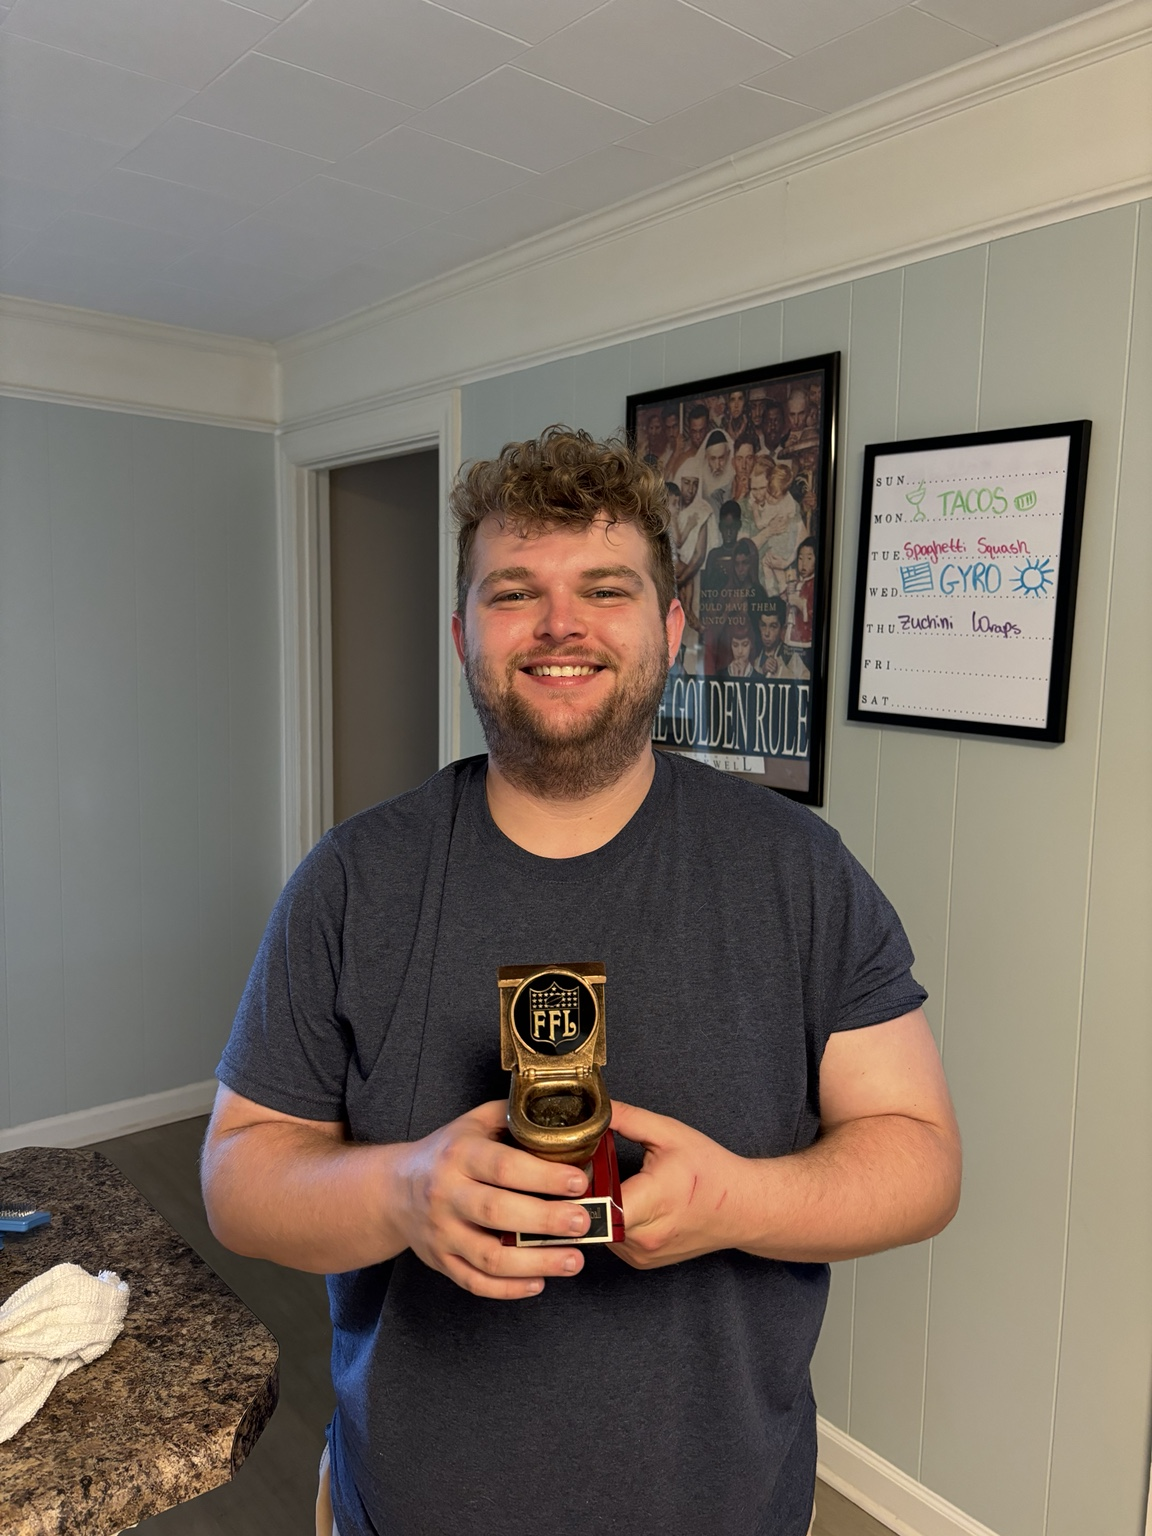
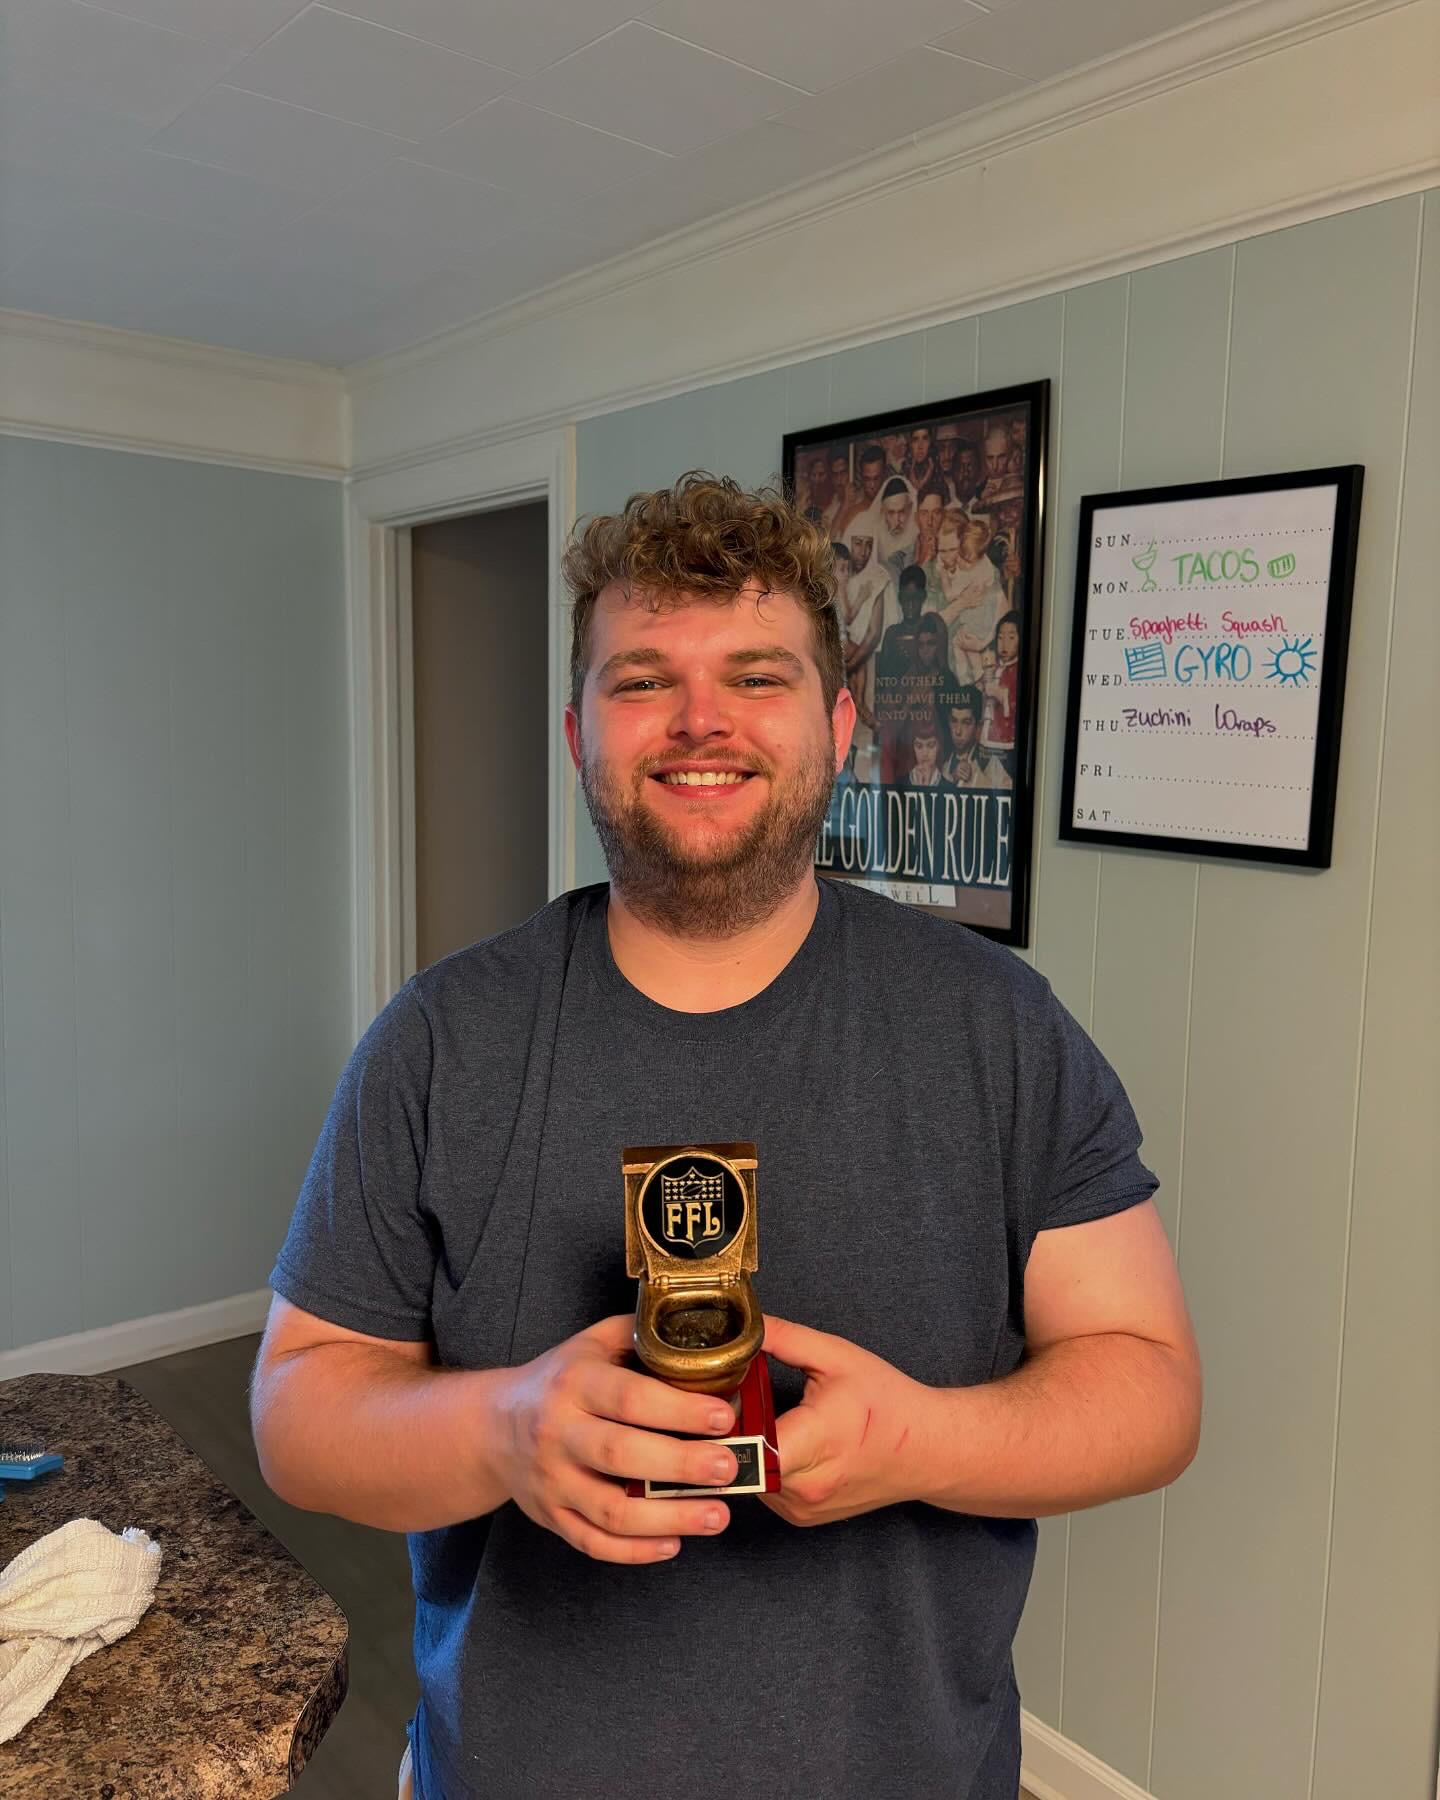
Add files via upload

diff --git a/script.js b/script.js
@@ -146,6 +146,18 @@ function home(){
   const championMember={
     "2020":"Grayson","2021":"Bailey","2022":"Davis","2023":"Victor B.","2024":"Quinton","2025":"Kameron"
   };
+  const splitBannerTeamName=(name)=>{
+    const words=name.trim().split(/\\s+/);
+    if(words.length<2) return name;
+    let best=1, bestDiff=Infinity;
+    for(let i=1;i<words.length;i++){
+      const a=words.slice(0,i).join(" ");
+      const b=words.slice(i).join(" ");
+      const diff=Math.abs(a.length-b.length);
+      if(diff<bestDiff){bestDiff=diff;best=i;}
+    }
+    return `${words.slice(0,best).join(" ")}<br><span>${words.slice(best).join(" ")}</span>`;
+  };
   const bannerPhoto={
     "2020":"grayson-helmet.png","2021":"bailey-banner.png","2022":"davis-helmet.png",
     "2023":"victor-helmet.png","2024":"quinton-banner.png","2025":"kameron-banner.png"
@@ -154,7 +166,7 @@ function home(){
     <div class="section-title"><span></span><h2>League Champions</h2><span></span></div>
     <div class="banner-row">${champions.map((c,i)=>`<div class="champion-banner champion-banner-link" tabindex="0" role="button" data-member="${championMember[c[0]]}" aria-label="Open ${c[1]}'s member profile" style="--speed:${5.2+i*.35}s;--delay:${i*-.55}s">
       <div class="year">${c[0]}</div>
-      <div class="team">${c[2]}</div>
+      <div class="team">${splitBannerTeamName(c[2])}</div>
       <img class="champion-photo" src="${bannerPhoto[c[0]]}" alt="${c[1]} team image">
       <div class="champ"><strong>${c[1]}</strong></div>
       <div class="record">${c[3]}</div>
@@ -224,16 +236,7 @@ function history(){
     <section class="season-foundation">
       <div class="season-foundation-kicker">THE LEAGUE IS BUILT TO LAST</div>
       <h3>Five Years Strong</h3>
-      <p>2024 was the year we knew the Alpha Psi Fake Football League was built to last. Going into the fifth year, we finally had a solid group of active brothers who were invested in the league and in what we were building together. We determined that draft order would be done by March Madness brackets, unless someone could get a celebrity or coach to make the pick. We also created our dynasty league this year, giving the Alpha Psi football community another way to compete and keep building for the future.</p>
-    <section class="history-photo-feature champion-photo-feature fantasy-loser-feature">
-      <div class="history-photo-feature-title">2024 FANTASY LOSER</div>
-      <figure>
-        <a href="2024-fantasy-loser-drayton-paxton.jpeg" target="_blank" rel="noopener">
-          <img src="2024-fantasy-loser-drayton-paxton.jpeg" alt="2024 Fantasy loser Drayton Paxton">
-        </a>
-        <figcaption>Fantasy loser 2024 Drayton Paxton</figcaption>
-      </figure>
-    </section>
+      <p>2024 was the year we knew the Alpha Psi Fake Football League was built to last. Going into the fifth year, we finally had a solid group of active brothers who were invested in the league and in what we were building together. We determined that draft order would be done by March Madness brackets, unless someone could get a celebrity or coach to make the pick. We also created our dynasty league this year, giving the Alpha Psi football community another way to compete and keep building for the future.</p></section>
 
     <section class="history-photo-feature champion-photo-feature">
       <div class="history-photo-feature-title">2024 CHAMPION</div>
@@ -245,7 +248,18 @@ function history(){
       </figure>
     </section>
 
+    
+    <section class="history-photo-feature champion-photo-feature fantasy-loser-feature">
+      <div class="history-photo-feature-title">2024 FANTASY LOSER</div>
+      <figure>
+        <a href="2024-fantasy-loser-drayton-paxton.jpeg" target="_blank" rel="noopener">
+          <img src="2024-fantasy-loser-drayton-paxton.jpeg" alt="2024 Fantasy loser Drayton Paxton">
+        </a>
+        <figcaption>Fantasy loser 2024 Drayton Paxton</figcaption>
+      </figure>
     </section>
+
+    
 
     ${renderPodium([
       {cls:"second",medal:"2ND",team:"Cocaine Cowboys",manager:"Jonathan Davis",label:"2ND PLACE"},
@@ -316,17 +330,7 @@ function history(){
       <div class="season-foundation-kicker">THE MODERN LEAGUE TAKES SHAPE</div>
       <h3>Becoming What We Know Today</h3>
       <p>2023 was the year the league really started to become what we know today. The current group of brothers was beginning to take shape, and people were investing more of themselves into what we were building. The podcast was growing, giving everyone a chance to get on and talk football and league business together. We also started giving out ices for scoring 0 points, and bench spots were cut from 7 to 6, putting a much tighter limit on roster depth. Most importantly, we introduced a uniform punishment system through the Wheel of Punishments, creating the league tradition that we still use today. Justin Cooper also became our Ice Commissioner, taking charge of the ice tradition that became part of the league.</p>
-    <section class="history-photo-feature champion-photo-feature">
-      <div class="history-photo-feature-title">2023 CHAMPION</div>
-      <figure>
-        <a href="2023-champion-victor-barcenas.jpeg" target="_blank" rel="noopener">
-          <img src="2023-champion-victor-barcenas.jpeg" alt="2023 Champion Victor Barcenas">
-        </a>
-        <figcaption>2023 Champion Victor Barcenas</figcaption>
-      </figure>
-    </section>
-
-    <section class="history-photo-feature">
+<section class="history-photo-feature">
       <div class="history-photo-feature-title">DRAFT DAY 2023</div>
       <div class="history-photo-grid">
         <figure>
@@ -339,13 +343,30 @@ function history(){
         </figure>
       </div>
     </section>
+<section class="history-photo-feature champion-photo-feature">
+      <div class="history-photo-feature-title">2023 CHAMPION</div>
+      <figure>
+        <a href="2023-champion-victor-barcenas.jpeg" target="_blank" rel="noopener">
+          <img src="2023-champion-victor-barcenas.jpeg" alt="2023 Champion Victor Barcenas">
+        </a>
+        <figcaption>2023 Champion Victor Barcenas</figcaption>
+      </figure>
+    </section>
+<section class="history-photo-feature champion-photo-feature fantasy-loser-feature">
+  <div class="history-photo-feature-title">2023 FANTASY LOSER</div>
+  <figure class="history-photo-card">
+    <img src="2023-fantasy-loser-chase-arrington.jpeg" alt="2023 Fantasy loser Chase Arrington">
+    <figcaption>2023 Fantasy loser Chase Arrington</figcaption>
+  </figure>
+</section>
+
 
     </section>
 
     ${renderPodium([
       {cls:"second",medal:"2ND",team:"Pillsbury Throw-boy",label:"2ND PLACE"},
-      {cls:"first",medal:"1ST",team:"El Effes Kitchen",manager:"Braxton Ivey",label:"2023 CHAMPION"},
-      {cls:"third",medal:"3RD",team:"El jeffe’s Kitchen",label:"3RD PLACE"}
+      {cls:"first",medal:"1ST",team:"My Ball Zach Ertz",manager:"Victor Barcenas",label:"2023 CHAMPION"},
+      {cls:"third",medal:"3RD",team:"El Jeffe's Kitchen",manager:"Braxton Ivey",label:"3RD PLACE"}
     ])}
 
     ${renderMoves(["Justin Cooper","Victor Barcenas"],["Blake Jackson"])}
@@ -388,15 +409,7 @@ const render2022=()=>`<section class="history-season-panel history-2022-panel" d
     <section class="season-foundation">
       <div class="season-foundation-kicker">THE LEAGUE TAKES SHAPE</div>
       <h3>Getting More Serious</h3>
-      <p>By 2022, the Alpha Psi Fake Football League was starting to get a little more serious. The competition was becoming more meaningful and the league was beginning to develop its identity, but there was still serious turnover from season to season. Bailey Coble and Quinton Roof also started the Alpha Sighs Podcast, giving the league another way to bring the brothers together, talk football, and build the league's personality outside of the weekly matchups. New brothers were coming in, others were moving on, and everyone was still figuring out what it meant to build a lasting league while competing for a championship. The rules were evolving quickly too: waiver claims moved to FAAB, the trade deadline moved up from Week 13 to Week 11, and bench spots were reduced from 8 to 7. The playoffs moved to a Week 15 start instead of Week 14. The punishment became the Sexy Calendar, and failing to complete a punishment meant losing your first-round pick and being forced to draft a defense. Trades continued to be voted on, and first-round picks could still be traded. Auto-drafters would lose a pick the following year, while draft position was determined by March Madness brackets. The payout structure also expanded, giving fifth place $60 and sixth place $50, while the winner of the losers bracket received $40 back. The loser of that bracket received S.H.I.T. and the punishment.</p><section class="history-photo-feature champion-photo-feature fantasy-loser-feature">
-      <div class="history-photo-feature-title">2022 FANTASY LOSER</div>
-      <figure>
-        <a href="2022-fantasy-loser-drayton-paxton.jpeg" target="_blank" rel="noopener">
-          <img src="2022-fantasy-loser-drayton-paxton.jpeg" alt="2022 Fantasy loser Drayton Paxton">
-        </a>
-        <figcaption>Fantasy loser 2022 Drayton Paxton</figcaption>
-      </figure>
-    </section>
+      <p>By 2022, the Alpha Psi Fake Football League was starting to get a little more serious. The competition was becoming more meaningful and the league was beginning to develop its identity, but there was still serious turnover from season to season. Bailey Coble and Quinton Roof also started the Alpha Sighs Podcast, giving the league another way to bring the brothers together, talk football, and build the league's personality outside of the weekly matchups. New brothers were coming in, others were moving on, and everyone was still figuring out what it meant to build a lasting league while competing for a championship. The rules were evolving quickly too: waiver claims moved to FAAB, the trade deadline moved up from Week 13 to Week 11, and bench spots were reduced from 8 to 7. The playoffs moved to a Week 15 start instead of Week 14. The punishment became the Sexy Calendar, and failing to complete a punishment meant losing your first-round pick and being forced to draft a defense. Trades continued to be voted on, and first-round picks could still be traded. Auto-drafters would lose a pick the following year, while draft position was determined by March Madness brackets. The payout structure also expanded, giving fifth place $60 and sixth place $50, while the winner of the losers bracket received $40 back. The loser of that bracket received S.H.I.T. and the punishment.</p></section>
 
     <section class="history-photo-feature champion-photo-feature">
       <div class="history-photo-feature-title">2022 CHAMPION</div>
@@ -408,7 +421,17 @@ const render2022=()=>`<section class="history-season-panel history-2022-panel" d
       </figure>
     </section>
 
+    <section class="history-photo-feature champion-photo-feature fantasy-loser-feature">
+      <div class="history-photo-feature-title">2022 FANTASY LOSER</div>
+      <figure>
+        <a href="2022-fantasy-loser-drayton-paxton.jpeg" target="_blank" rel="noopener">
+          <img src="2022-fantasy-loser-drayton-paxton.jpeg" alt="2022 Fantasy loser Drayton Paxton">
+        </a>
+        <figcaption>Fantasy loser 2022 Drayton Paxton</figcaption>
+      </figure>
     </section>
+
+    
 
     ${renderPodium([
       {cls:"second",medal:"2ND",team:"Dirty Mikes And The Boys",manager:"Andrew Blum",label:"2ND PLACE"},
@@ -835,6 +858,7 @@ function members(){
       <div class="member-profile-info">
         <strong>${memberFullNames[name]||name}</strong>
         <div class="member-years">${years}</div>
+        <div class="member-overall-label">OVERALL</div>
         <div class="member-record-large">${record}</div>
       </div>
     </div>`;
@@ -853,6 +877,8 @@ function members(){
 
   const alumniCard=n=>`<article class="member player-profile-card alumni-profile-card alumni-minimal-card">
     <div class="alumni-minimal-name">${memberFullNames[n[0]]||n[0]}</div>
+    <div class="alumni-overall-label">OVERALL</div>
+    <div class="alumni-record">${n[2]}</div>
     ${n[0]==="Grayson"?trophyCase(n[0]):""}
   </article>`;
 

diff --git a/style.css b/style.css
@@ -3236,3 +3236,113 @@ body {
     margin: 16px auto;
   }
 }
+
+
+/* Final championship banner typography refinement */
+.champion-banner .team {
+  white-space: normal !important;
+  width: 100%;
+  max-width: 145px;
+  min-height: 2.18em;
+  margin: 8px auto 5px !important;
+  font-size: 17px !important;
+  line-height: 1.05 !important;
+  letter-spacing: -0.1px;
+}
+.champion-banner .team span {
+  display: inline;
+}
+.champion-banner .record {
+  bottom: 13px !important;
+  font-size: 34px !important;
+  line-height: 1 !important;
+  letter-spacing: .2px;
+}
+.champion-banner .record:before {
+  font-size: 13px !important;
+  line-height: 1 !important;
+  letter-spacing: 2px;
+  margin-bottom: 3px;
+}
+@media (max-width: 650px) {
+  .champion-banner .team {
+    max-width: 105px;
+    font-size: 14px !important;
+  }
+  .champion-banner .record {
+    bottom: 10px !important;
+    font-size: 27px !important;
+  }
+  .champion-banner .record:before {
+    font-size: 10px !important;
+  }
+}
+
+
+/* Final member/alumni presentation update */
+.player-profile-card .member-photo-frame {
+  padding: 0 !important;
+  background: transparent !important;
+  border: 0 !important;
+  box-shadow: none !important;
+  border-radius: 50% !important;
+  overflow: hidden !important;
+}
+.player-profile-card .member-photo,
+.player-profile-card .member-photo-empty {
+  width: 84px !important;
+  height: 84px !important;
+  flex-basis: 84px !important;
+  border-radius: 50% !important;
+  border: 0 !important;
+  box-shadow: none !important;
+  object-fit: cover;
+}
+.member-years {
+  font-size: 12px !important;
+  line-height: 1.1 !important;
+}
+.member-overall-label,
+.alumni-overall-label {
+  margin-top: 6px;
+  color: #888;
+  font-family: Oswald, Arial, sans-serif;
+  font-size: 8px;
+  font-weight: 600;
+  letter-spacing: 1.5px;
+  line-height: 1;
+}
+.member-record-large {
+  margin-top: 2px !important;
+}
+.alumni-minimal-card {
+  text-align: center;
+}
+.alumni-minimal-name {
+  margin-bottom: 7px;
+}
+.alumni-record {
+  margin-top: 2px;
+  color: var(--red);
+  font-family: "Roboto Slab", serif;
+  font-size: 20px;
+  font-weight: 900;
+  line-height: 1.05;
+}
+.alumni-minimal-card .trophy-case {
+  margin-top: 10px;
+}
+@media (max-width: 650px) {
+  .player-profile-card .member-photo,
+  .player-profile-card .member-photo-empty {
+    width: 70px !important;
+    height: 70px !important;
+    flex-basis: 70px !important;
+  }
+  .member-years {
+    font-size: 11px !important;
+  }
+  .alumni-record {
+    font-size: 18px;
+  }
+}
